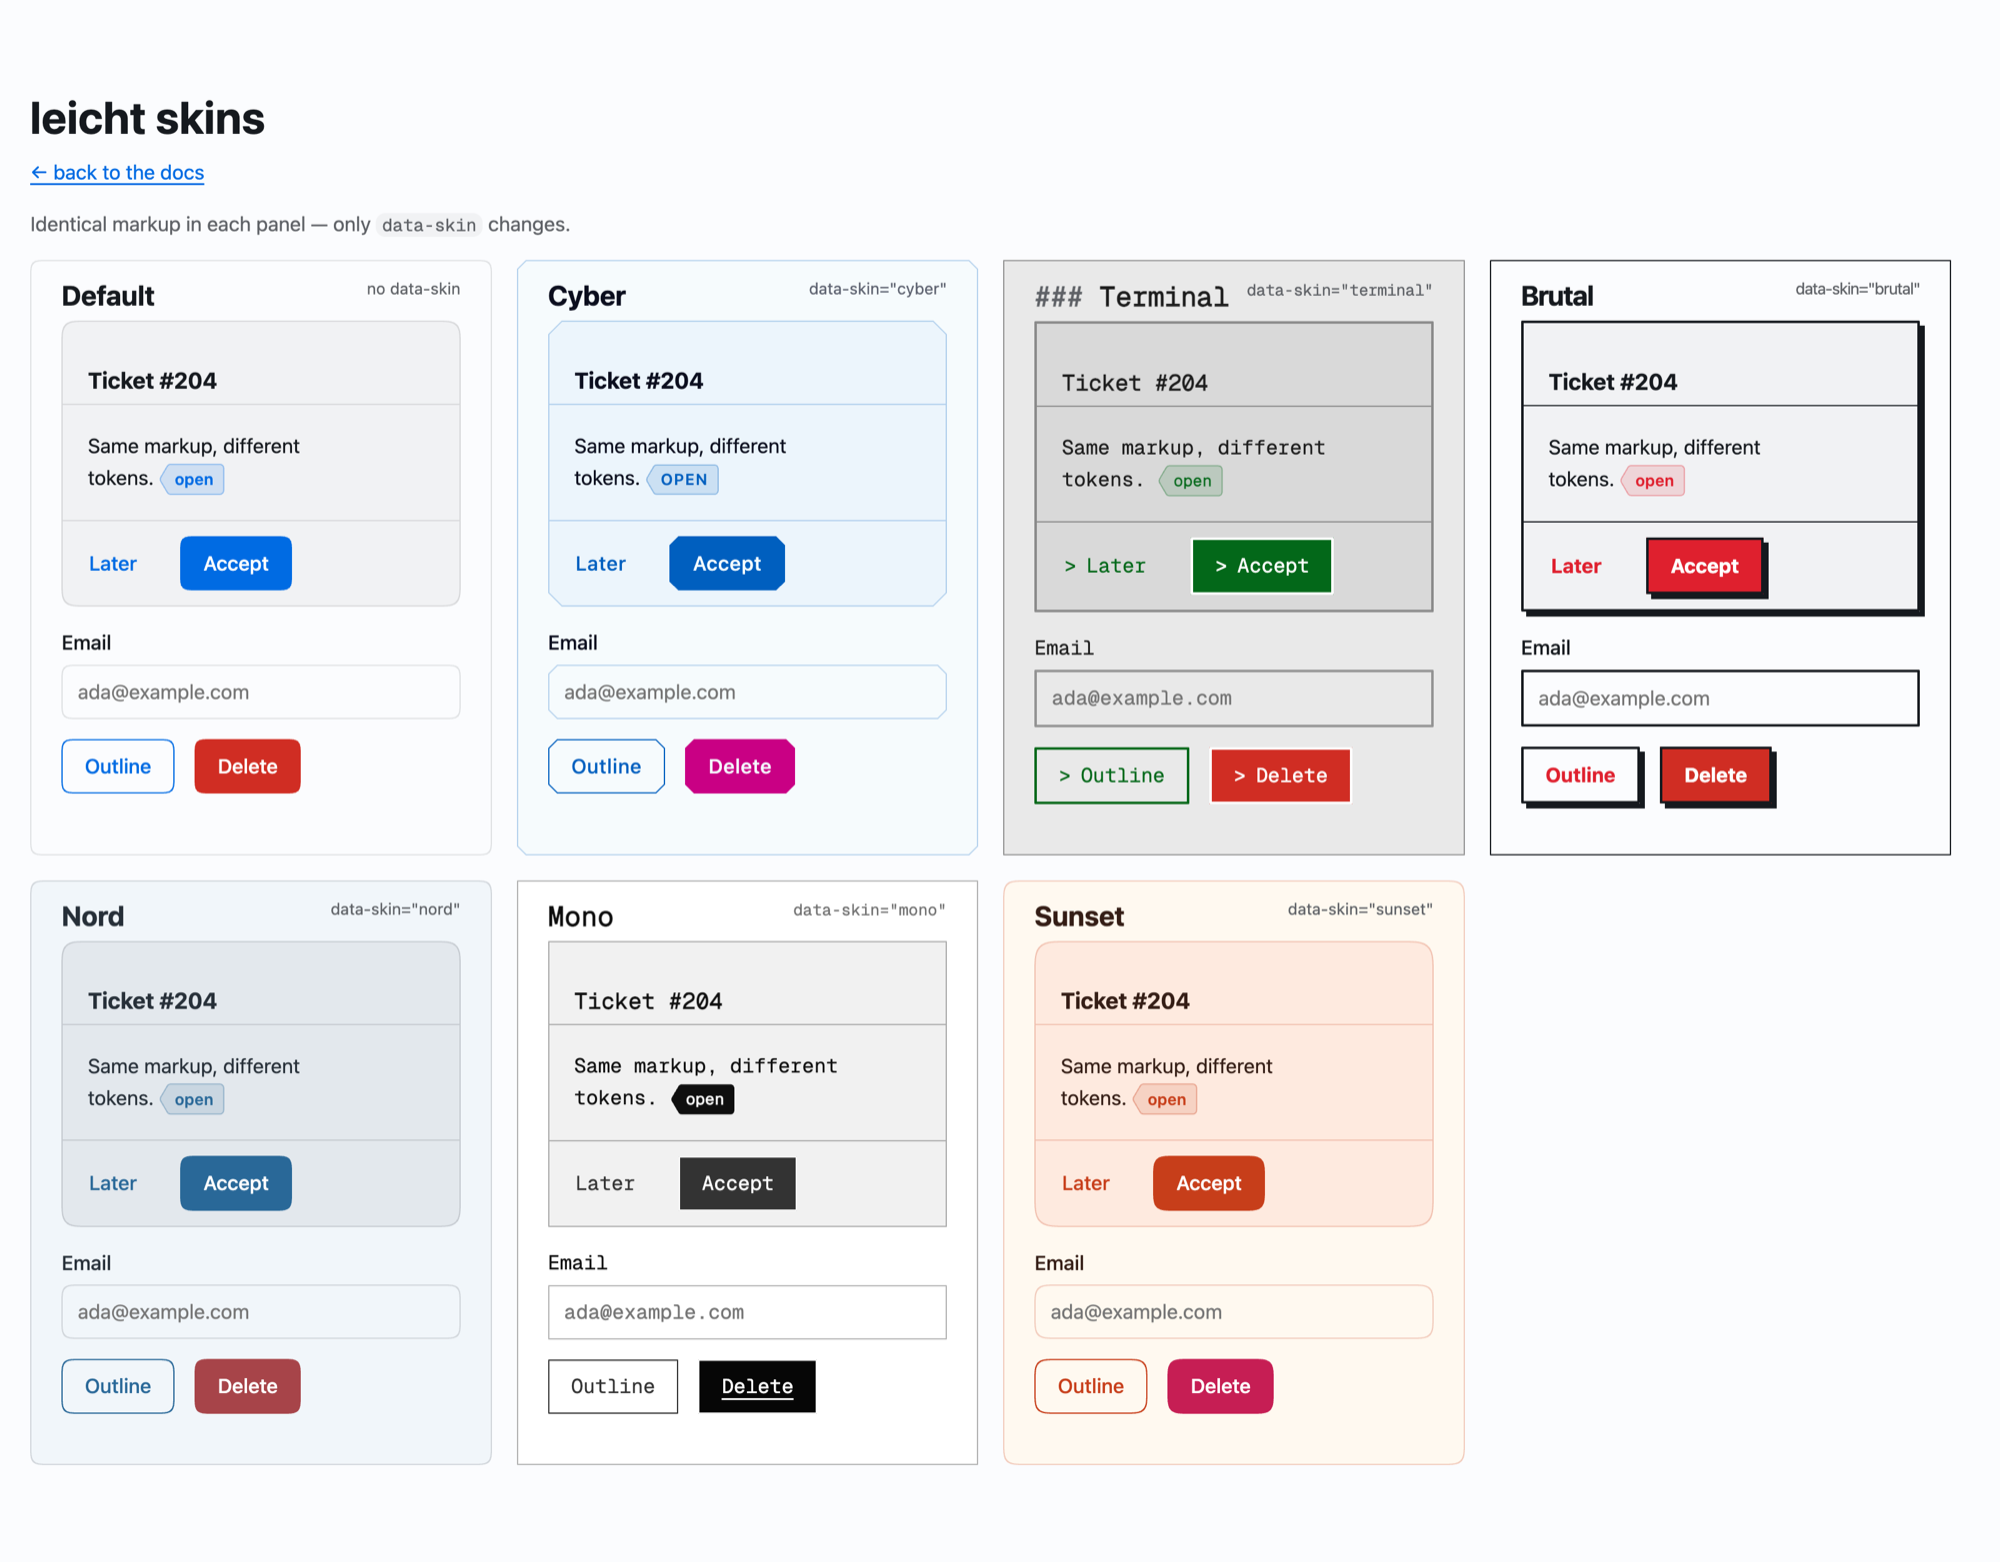
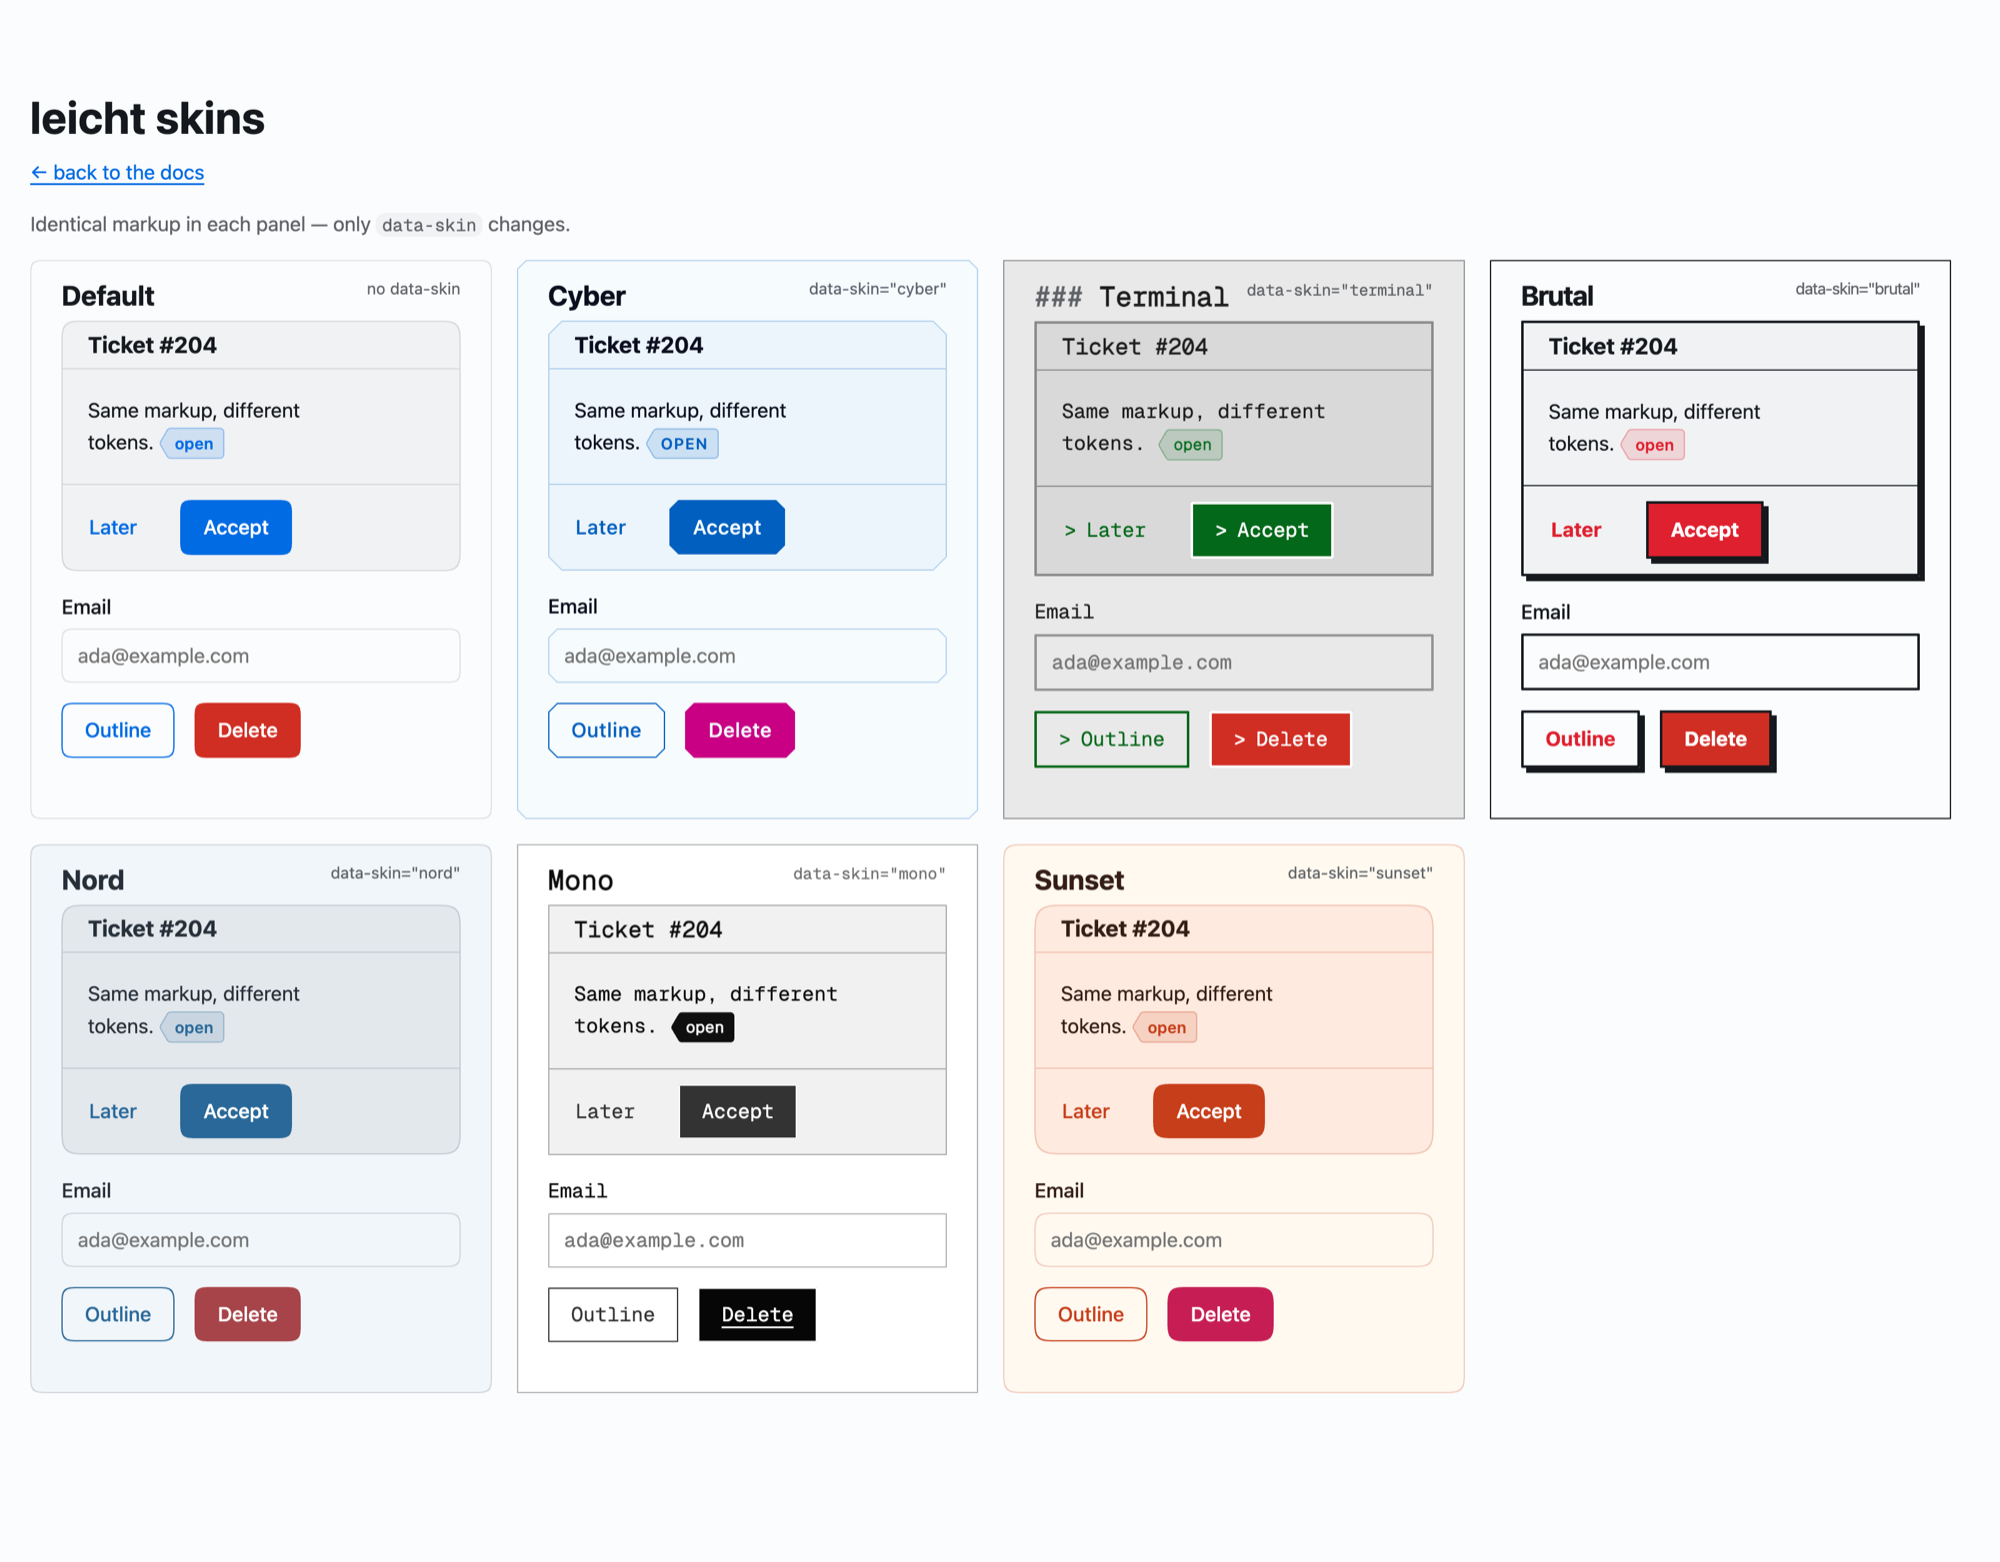
Centre a card header's title, and fix the release job
The first-child margin reset listed article, .card, dialog and [popover] but
not header or footer, so a heading inside a card's <header> kept its 1.6em top
margin and sat low in the bar it is meant to be centred in — 41px of space
above the title against 13 below. Every skin was affected; mono's hairline
frame is just what made it visible. Now 12 and 13 in all six.

The release job also needed two fixes: the pack parser is CommonJS in a
"type": "module" package, so it is now .cjs, and a commit that changes source
without bumping the version warns instead of failing the run.

diff --git a/test/e2e/popover.spec.js b/test/e2e/popover.spec.js
@@ -1,0 +1,34 @@
+import { test, expect } from '@playwright/test';
+
+test.beforeEach(async ({ page }) => { await page.goto('/test/fixtures/popover.html'); });
+
+test('a panel keeps its buttons as buttons', async ({ page }) => {
+  await page.locator('#panel-btn').click();
+  const apply = page.locator('#apply');
+  await expect(apply).toBeVisible();
+  // the primary fill must survive: a menu row would be transparent
+  await expect(apply).toHaveCSS('background-color', 'rgb(0, 107, 227)');
+  await expect(apply).toHaveCSS('justify-content', 'center');
+
+  const panelBox = await page.locator('#panel-pop').boundingBox();
+  const applyBox = await apply.boundingBox();
+  // a menu row stretches to the popover's inline size; a button does not
+  expect(applyBox.width).toBeLessThan(panelBox.width * 0.6);
+});
+
+test('a panel gets room for a form', async ({ page }) => {
+  await page.locator('#panel-btn').click();
+  await expect(page.locator('#panel-pop')).toHaveCSS('padding', '16px');
+});
+
+test('a menu still gets menu geometry', async ({ page }) => {
+  await page.locator('#menu-btn').click();
+  const menu = page.locator('#menu-pop');
+  await expect(menu).toBeVisible();
+  const menuBox = await menu.boundingBox();
+  const rowBox = await page.locator('#menu-row').boundingBox();
+  // a menu row fills its menu, minus the .35rem padding either side
+  expect(rowBox.width).toBeGreaterThan(menuBox.width - 16);
+  await expect(page.locator('#menu-row')).toHaveCSS('justify-content', 'start');
+  expect(menuBox.width).toBeGreaterThanOrEqual(192); // 12rem
+});

diff --git a/test/fixtures/popover.html b/test/fixtures/popover.html
@@ -1,0 +1,31 @@
+<!doctype html>
+<html lang="en">
+<head>
+<meta charset="utf-8">
+<meta name="viewport" content="width=device-width,initial-scale=1">
+<title>popover fixture</title>
+<link rel="stylesheet" href="../../dist/leicht.css">
+</head>
+<body>
+<main>
+  <h1>Popover kinds</h1>
+
+  <button popovertarget="menu-pop" id="menu-btn" style="anchor-name:--m">Menu</button>
+  <menu popover id="menu-pop" style="position-anchor:--m">
+    <li><button type="button" id="menu-row">View</button></li>
+    <li><button type="button">Duplicate</button></li>
+  </menu>
+
+  <button popovertarget="panel-pop" id="panel-btn" style="anchor-name:--p">Panel</button>
+  <div popover id="panel-pop" style="position-anchor:--p">
+    <h4>More filters</h4>
+    <label for="p-min">Amount over</label>
+    <input id="p-min" type="number" value="0">
+    <footer class="flex">
+      <button type="button" class="secondary">Cancel</button>
+      <button type="button" id="apply">Apply</button>
+    </footer>
+  </div>
+</main>
+</body>
+</html>

diff --git a/src/base.css b/src/base.css
@@ -10,8 +10,10 @@
     padding: var(--l-space) clamp(1rem, 4vw, 2rem);
   }
   body > main, .container { container-type: inline-size }
-  :is(body > main, article, .card, dialog, [popover]) > :first-child { margin-block-start: 0 }
-  :is(article, .card, dialog, [popover], header) > :last-child { margin-block-end: 0 }
+  /* both ends, and the same list on both: a heading inside a card's <header> kept its 1.6em
+     top margin, so the title sat low in the bar it is centred in */
+  :is(body > main, article, .card, dialog, [popover], header, footer) > :first-child { margin-block-start: 0 }
+  :is(article, .card, dialog, [popover], header, footer) > :last-child { margin-block-end: 0 }
 
   h1, h2, h3, h4, h5, h6 { margin-block: 1.6em .5em; line-height: 1.2; text-wrap: balance }
   h1 { font-size: 2.25rem }
